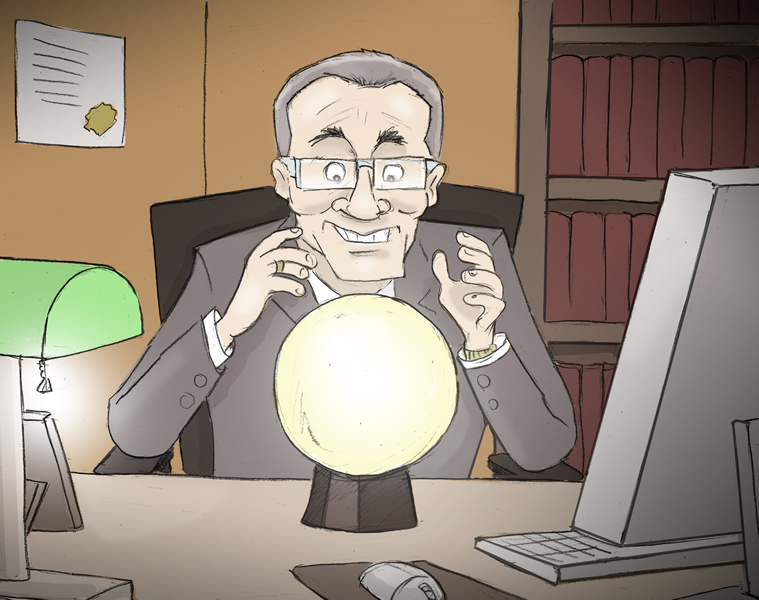
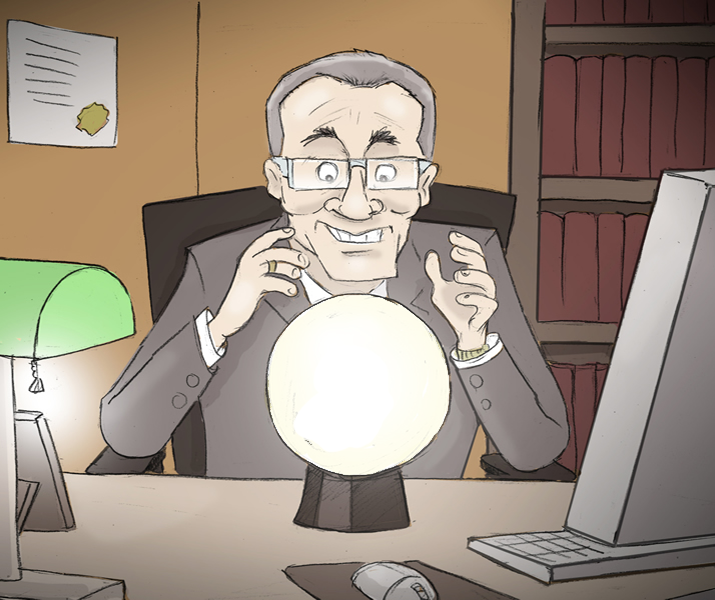
- reCropped lawyer and adjusted offsets

diff --git a/crystal.py b/crystal.py
@@ -16,7 +16,7 @@ class Crystal:
         self.imageCenterY = self.screen.get_rect().centery
 
     def blitme(self):
-        pygame.draw.ellipse(self.screen, self.color, (self.imageCenterX-158,self.imageCenterY-5,277,217), 0)
+        pygame.draw.ellipse(self.screen, self.color, (self.imageCenterX-100,self.imageCenterY-5,200,183), 0)
 
     def setColor(self, color):
         self.color = color
